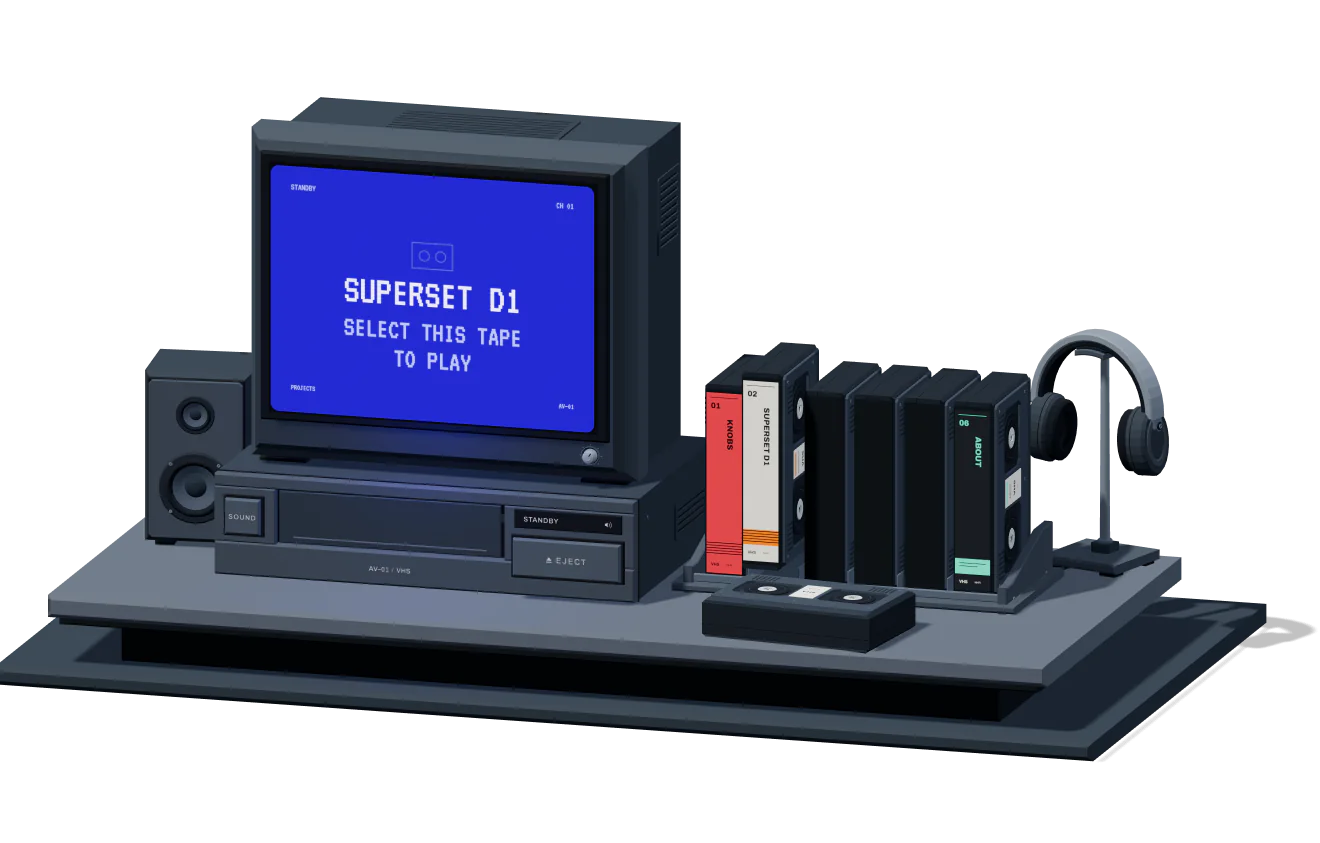
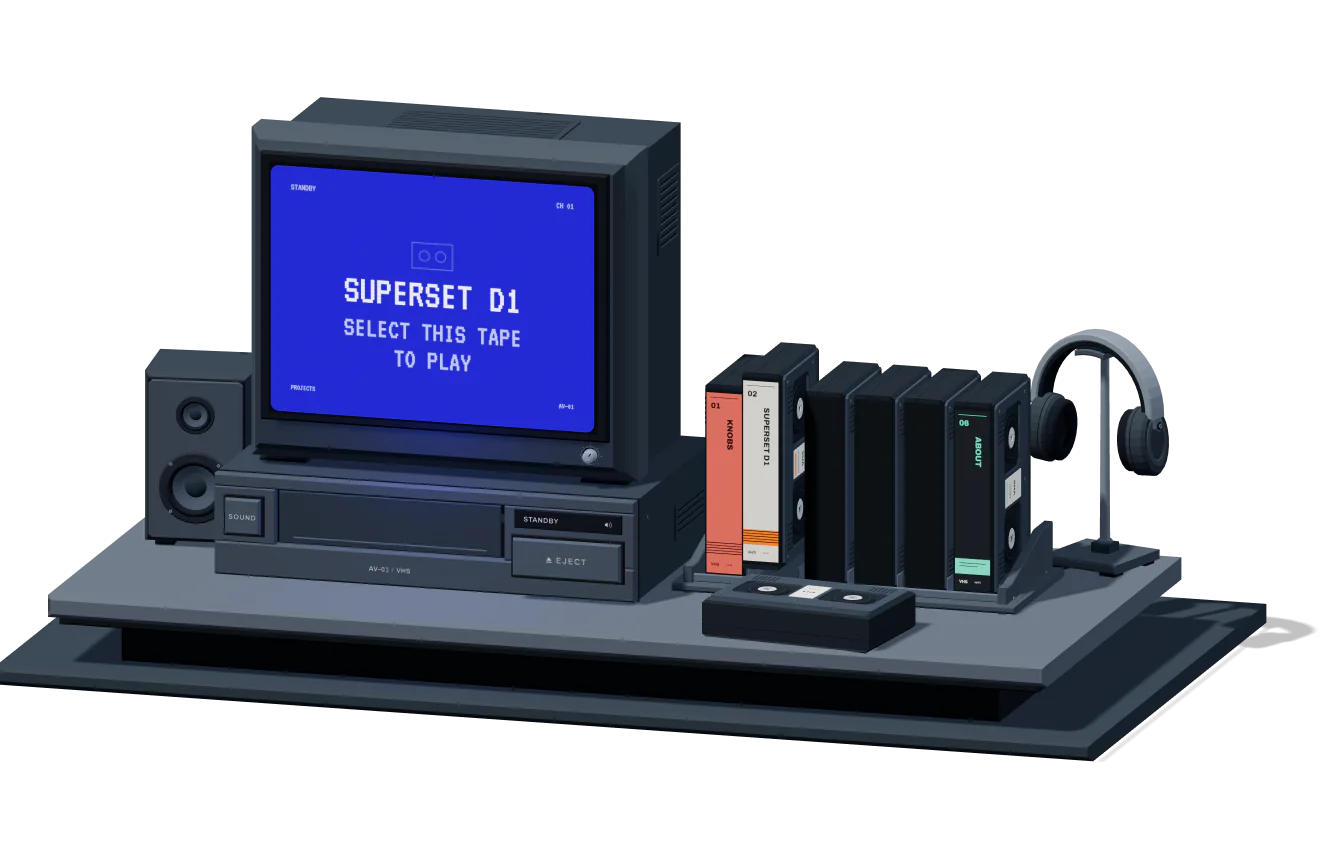
Follow the knobs rebrand on its tape
knobs has a new brand (the knobs-brand repository) and new releases
since its tape went in. The reader's title card now shows the new flat
lockup, copied unchanged from knobs-brand's logo/svg/ and served as the
file rather than inlined. It no longer glows: the brand allows no glow,
shadow or outline on its logo. It stays under the tube's grain,
scanlines, vignette and tracking, keeps the brand's clear space, and
clears its 24px floor (The Title Card Rule).

The spine label and the diagram's "My code" outline take cap red,
#df695e, the brand's one red. The write-up says what changed for a
visitor: knobs keeps running while OBS is open, runs VST plugins and
NVIDIA's noise removal, and uses a fraction of OBS's memory and CPU. It
ends on the brand's own independence line. The diagram's knobs note
reads "Runs while OBS is open too".

Diagrams, share cards and the studio's stills re-rendered (the D1
diagrams and the stills' slot data unchanged). The title card test
reads the logo's proportions from its viewBox, checks that it has no
glow, and checks the brand's clear space. DESIGN.md, PRODUCT.md, the
surface brief, the sidecar and PLAN.md are updated. 96 e2e green.

Changed region(s): [[0.528, 0.4626, 0.5591, 0.6785]]

diff --git a/src/content/projects/knobs.ts b/src/content/projects/knobs.ts
@@ -1,10 +1,12 @@
 import type { Project } from '../types'
-// The knobs logo, copied unchanged from the knobs repository's assets/: the
-// lockup with light text, for dark grounds, and its dark-text twin for a
-// light high-contrast theme. Their use here is the one TRADEMARKS.md there
-// allows without asking: unmodified, to refer to knobs.
-import lockup from './media/knobs-lockup-horizontal-light.svg'
-import lockupOnLight from './media/knobs-lockup-horizontal-dark.svg'
+// The knobs logo, copied unchanged from the knobs-brand repository's
+// logo/svg/: the horizontal lockup with light ink, for dark grounds, and its
+// dark-ink twin for a light high-contrast theme. Their use here is the one
+// TRADEMARKS.md in the knobs repository allows without asking: unmodified,
+// to refer to knobs. Served as the files themselves, not inlined as data
+// URLs into the page's script.
+import lockup from './media/knobs-lockup-horizontal-light.svg?no-inline'
+import lockupOnLight from './media/knobs-lockup-horizontal-dark.svg?no-inline'
 // Rendered from the two .html sources beside them by `npm run render:diagrams`.
 import diagram from './media/knobs-diagram.webp'
 import narrowDiagram from './media/knobs-diagram-narrow.webp'
@@ -13,13 +15,14 @@ export const knobs: Project = {
   slug: 'knobs',
   title: 'knobs',
   caption: 'Your OBS mic chain, in every app',
-  logo: { src: lockup, width: 1375, height: 304, onLight: lockupOnLight },
+  // The files carry only a viewBox (455.74 × 104); this is four times it.
+  logo: { src: lockup, width: 1823, height: 416, onLight: lockupOnLight },
   tagline:
     'A Windows app I built that gives every app on your PC the mic sound you set up in OBS Studio.',
   description: [
     'Streamers and podcasters often shape their microphone’s sound in OBS Studio, the free streaming and recording app, with filters that cut background noise and keep their voice at an even level. Using that sound in a call or a game usually means keeping OBS open all day.',
-    'knobs runs the same filters in the background instead, with OBS closed. It uses OBS’s own audio code and reads your settings from OBS, so your mic sounds exactly as it does there, bit for bit. Other apps hear it through a virtual audio cable, which they pick as their microphone.',
-    'It starts with Windows, waits in the system tray and steps aside whenever OBS is open. knobs is an independent project, not affiliated with or endorsed by the OBS Project.',
+    'knobs runs the same filters in the background instead, so OBS can stay closed. It uses OBS’s own audio code and reads your settings from OBS, so your mic sounds exactly as it does there, bit for bit. Other apps hear it through a virtual cable, which they choose as their mic.',
+    'It also runs the add-on effects OBS can host: VST plugins and NVIDIA’s noise removal. It waits in the system tray, starts with Windows and uses a fraction of the memory and CPU that OBS does. It keeps running while OBS is open too, so you can stream from OBS and talk in your other apps with the same filters. knobs is an independent project, not affiliated with the OBS Project.',
   ],
   year: 2026,
   role: 'Creator',
@@ -35,14 +38,15 @@ export const knobs: Project = {
       width: 2080,
       height: 1742,
       narrow: { src: narrowDiagram, width: 1170, height: 2730 },
-      alt: 'System diagram of how knobs runs a microphone through OBS’s own audio code. Inside knobs, the loader keeps a private copy of OBS Studio, your own install, made once per OBS version, and loads libobs, OBS’s audio engine, from it with no video. OBS’s settings, your profile, are read and never written by the importer inside knobs, which rebuilds your mic in libobs with OBS’s own code. Inside libobs your mic’s audio passes from the mic input, as set in OBS, through your filters in order, to the output, OBS’s audio monitoring. The processed mic goes out to a virtual cable, which other apps use as their mic. knobs pauses while OBS runs. Solid lines are audio and dashed lines are code and settings. The loader and the importer are outlined in red as my code.',
+      alt: 'System diagram of how knobs runs a microphone through OBS’s own audio code. Inside knobs, the loader keeps a private copy of OBS Studio, your own install, made once per OBS version, and loads libobs, OBS’s audio engine, from it with no video. OBS’s settings, your profile, are read and never written by the importer inside knobs, which rebuilds your mic in libobs with OBS’s own code. Inside libobs your mic’s audio passes from the mic input, as set in OBS, through your filters in order, to the output, OBS’s audio monitoring. The processed mic goes out to a virtual cable, which other apps use as their mic. knobs runs while OBS is open too. Solid lines are audio and dashed lines are code and settings. The loader and the importer are outlined in red as my code.',
       caption: 'How knobs runs your mic through OBS’s own audio code.',
     },
   ],
   vhs: {
     spineLabel: 'KNOBS',
     labelVariant: 'rental',
-    accent: '#e5484d',
+    // Cap red, the knobs brand's red (knobs-brand tokens: `action`).
+    accent: '#df695e',
     recorded: 'OCT 2026',
   },
 }

diff --git a/e2e/reader.spec.ts b/e2e/reader.spec.ts
@@ -136,8 +136,16 @@ test('a tape with a logo of its own opens on it as its title card, under the tub
   await expect(title).toBeFocused()
   await expect(page).toHaveTitle('knobs · Daniel Alyoshin')
   const card = await title.evaluate(async (h2) => {
-    const [logo, bloom] = Array.from(h2.querySelectorAll('img'))
+    const images = Array.from(h2.querySelectorAll('img'))
+    const logo = images[0]
     await logo.decode()
+    // The file's own proportions, from its viewBox: an SVG with no width or
+    // height reports a rounded natural size.
+    const svg = await (await fetch(logo.currentSrc)).text()
+    const [, , vw, vh] = svg
+      .match(/viewBox=["']([^"']+)["']/)![1]
+      .split(/\s+/)
+      .map(Number)
     const box = logo.getBoundingClientRect()
     const screen = h2.closest('section[aria-label="CRT display"] > div')!
     // The tube's grain, scanlines and vignette are its last three layers.
@@ -153,27 +161,35 @@ test('a tape with a logo of its own opens on it as its title card, under the tub
       )
     })
     const mark = getComputedStyle(h2.querySelector('span')!, '::after')
+    // The meta line keeps clear of the card by a quarter of the mark's
+    // height, as the knobs brand asks: its mark is drawn on a 100-unit
+    // square in the lockup's box.
+    const below =
+      h2.nextElementSibling!.getBoundingClientRect().top - box.bottom
     return {
+      clear: below >= (box.height * (100 / vh)) / 4,
       ratio: box.width / box.height,
-      natural: logo.naturalWidth / logo.naturalHeight,
-      bloomHidden: bloom.alt === '' && bloom.src === logo.src,
-      bloomBlend: getComputedStyle(bloom).mixBlendMode,
+      natural: vw / vh,
+      images: images.length,
+      filter: getComputedStyle(logo).filter,
       covered,
       underline: { height: mark.height, colour: mark.backgroundColor },
     }
   })
-  // Drawn as supplied: never stretched (the knobs logo's own rule).
+  // Drawn as supplied: never stretched, and with no glow or copy laid over
+  // it (the knobs brand's own rules).
   expect(card.ratio).toBeCloseTo(card.natural, 2)
-  expect(card.bloomHidden).toBe(true)
-  expect(card.bloomBlend).toBe('screen')
+  expect(card.images).toBe(1)
+  expect(card.filter).toBe('none')
   expect(card.covered).toBe(true)
+  expect(card.clear).toBe(true)
   // Chosen from the keyboard, the card marks the focus on it, as a title's
   // type does: a 3px line in OSD white.
   expect(card.underline).toEqual({
     height: '3px',
     colour: 'rgb(255, 255, 255)',
   })
-  // On the smallest phone the knob still stands above its 32px floor.
+  // On the smallest phone the lockup still stands above its 24px floor.
   await page.setViewportSize({ width: 320, height: 640 })
   await page.goto('/project/knobs')
   const phone = page
@@ -185,5 +201,5 @@ test('a tape with a logo of its own opens on it as its title card, under the tub
       .locator('img')
       .first()
       .evaluate((img) => img.clientHeight),
-  ).toBeGreaterThanOrEqual(32)
+  ).toBeGreaterThanOrEqual(24)
 })

diff --git a/src/components/CRT.module.css b/src/components/CRT.module.css
@@ -225,11 +225,10 @@
 
 /* A tape with a logo of its own opens on it (The Title Card Rule): the
    owner's file as drawn, never recoloured, standing where the title's type
-   would, at 1.75 times its size, which holds a knob above its 32px floor on
-   the smallest tube. The tube lights it as it lights its text: under its
-   grain, scanlines and vignette, and with the OSD's 6px glow at half
-   strength, here in the logo's own colours (a blurred copy screened over
-   it), so its lit parts bloom and its dark parts do not. */
+   would, at 1.75 times its size, which holds the knobs lockup well above its
+   24px floor on the smallest tube. It lies under the tube's grain,
+   scanlines and vignette, as everything the tube shows does, but takes no
+   glow: the knobs brand allows none. */
 .titleCard {
   line-height: 0;
 }
@@ -246,14 +245,6 @@
   display: block;
   width: auto;
   height: 100%;
-}
-.logo .logoBloom {
-  position: absolute;
-  inset: 0;
-  filter: blur(6px);
-  opacity: 0.5;
-  mix-blend-mode: screen;
-  pointer-events: none;
 }
 /* Type takes the keyboard's underline; a picture cannot, so the card draws
    the same 3px OSD-white line under itself. */
@@ -684,14 +675,10 @@
     background: GrayText;
     opacity: 1;
   }
-  /* The title card keeps its keyboard line in the visitor's own ink, and
-     drops its glow: the mode's ground may be light, where it would only
-     haze the letters (The Title Card Rule). */
+  /* The title card keeps its keyboard line in the visitor's own ink (The
+     Title Card Rule). */
   .titleCard[data-keyboard]:focus-visible .logo::after {
     forced-color-adjust: none;
     background: CanvasText;
-  }
-  .logo .logoBloom {
-    display: none;
   }
 }

diff --git a/src/content/projects/media/knobs-diagram.html b/src/content/projects/media/knobs-diagram.html
@@ -23,9 +23,9 @@
   - code and settings (dashed) come down x 120 and x 400, each labelled
     12px to its right; audio (solid) comes up into the chain at x 100,
     along it, and out of it at x 430 to the cable, then on to the apps.
-  The knob red, the tape's label accent, marks the parts I wrote, as the
-  key under the drawing says; everything the mic's audio passes through is
-  OBS's own code.
+  Cap red, the knobs brand's red and the tape's label accent, marks the
+  parts I wrote, as the key under the drawing says; everything the mic's
+  audio passes through is OBS's own code.
 -->
 <html lang="en">
   <head>
@@ -38,7 +38,7 @@
     <style>
       :root {
         /* The tape's label accent (vhs.accent): the parts I wrote. */
-        --accent: #e5484d;
+        --accent: #df695e;
         --node: color-mix(in srgb, var(--screen-text) 4%, var(--screen-black));
         --line: var(--screen-scroll);
       }
@@ -183,7 +183,9 @@
           rx="4"
         />
         <text class="name" x="30" y="127">knobs</text>
-        <text class="quiet end" x="590" y="127">Pauses while OBS runs</text>
+        <text class="quiet end" x="590" y="127">
+          Runs while OBS is open too
+        </text>
 
         <rect
           class="part changed"

diff --git a/src/content/projects/media/knobs-diagram-narrow.html b/src/content/projects/media/knobs-diagram-narrow.html
@@ -15,7 +15,7 @@
     12px to its right; the mic's audio (solid) takes the rail at x 342
     from the mic down to the chain's first row, runs down the chain at
     x 150, and leaves it at x 100 for the cable and the apps.
-  The knob red marks the parts I wrote, as the key says.
+  Cap red, the knobs brand's red, marks the parts I wrote, as the key says.
 -->
 <html lang="en">
   <head>
@@ -28,7 +28,7 @@
     <style>
       :root {
         /* The tape's label accent (vhs.accent): the parts I wrote. */
-        --accent: #e5484d;
+        --accent: #df695e;
         --node: color-mix(in srgb, var(--screen-text) 4%, var(--screen-black));
         --line: var(--screen-scroll);
       }
@@ -244,7 +244,9 @@
         <text class="name" x="54" y="547">Output</text>
         <text class="quiet end" x="286" y="547">Audio monitoring</text>
 
-        <text class="quiet end" x="310" y="604">Pauses while OBS runs</text>
+        <text class="quiet end" x="310" y="604">
+          Runs while OBS is open too
+        </text>
 
         <!-- Out to the cable and the other apps -->
         <path class="wire" d="M100 565v86" />

diff --git a/src/components/CRT.tsx b/src/components/CRT.tsx
@@ -277,13 +277,6 @@ export default function CRT({
                             alt={tape.title}
                           />
                         </picture>
-                        <img
-                          className={styles.logoBloom}
-                          src={tape.logo.src}
-                          width={tape.logo.width}
-                          height={tape.logo.height}
-                          alt=""
-                        />
                       </span>
                     ) : (
                       tape.title

diff --git a/DESIGN.md b/DESIGN.md
@@ -305,9 +305,9 @@ bar's ten steps are painted boxes the mode would turn into the screen's own
 ground, so they alone opt out (`forced-color-adjust: none`) and take their
 colours from the system palette: each step outlined in `CanvasText`, filled
 when lit, and `GrayText` while pointing previews the turn (The Picture Size
-Rule). A title card's keyboard line opts out the same way, in `CanvasText`;
-its glow goes, and on a light theme the card shows its owner's version for
-light grounds (The Title Card Rule). Normal colours are unchanged.
+Rule). A title card's keyboard line opts out the same way, in `CanvasText`,
+and on a light theme the card shows its owner's version for light grounds
+(The Title Card Rule). Normal colours are unchanged.
 
 ## Typography
 
@@ -859,7 +859,7 @@ rack, and a ray through an empty slot would run on into the next envelope
 classic, rental, and studio variants, and the About tape alone wears the
 studio label, a dark spine printed in its accent, so it reads apart from
 every project (Daniel, 2026-10-08): KNOBS is a rental label, its whole
-spine in the knob red, and SUPERSET D1 a classic one. High-resolution
+spine in cap red, the knobs brand's red, and SUPERSET D1 a classic one. High-resolution
 local canvas textures carry the print; hovering a tape or focusing its link
 lifts and previews the same cassette without changing its size or orientation.
 The lift follows an arc that rises before it comes forward, and retreats
@@ -1112,22 +1112,25 @@ answer, as the bar does not.
 
 **The Title Card Rule.** A tape whose project has a logo of its own opens on
 it, as a tape opens on its title card. The logo stands in the title's
-place, at 1.75 times the title's size, which holds the knobs knob above the
-32px floor its owner sets on the smallest tube, and the title stays the
-heading's name, said by the image's alternative text, so the tape is
-announced, and its document named, as every tape is. The logo is the
-owner's file as supplied (`Project.logo`, its pixel size required, as
-media's is): never redrawn, recoloured, rotated, stretched, or set in the
-site's type. The tube lights it as it lights everything it shows: it plays
-the tracking entrance, scrolls under the OSD's fades, and lies under the
-grain, scanlines, and vignette; and it carries the OSD's glow, 6px at half
-strength, in its own colours (a blurred copy screened over it), so what is
-lit on it blooms and its dark parts stay dark. A picture cannot take the
-keyboard's underline, so for a tape chosen from the keyboard the card draws
-the same 3px OSD-white line under itself, 0.4rem below. In forced colours
-the line is drawn in the visitor's ink (`CanvasText`), the glow goes, and a
-light theme, whose ground would swallow the logo's light letters, gets the
-owner's own version for light grounds (`logo.onLight`). The logo lives on
+place, at 1.75 times the title's size, which holds the knobs lockup well
+above the 24px floor its owner sets, on the smallest tube, and keeps the
+quarter of its mark's height that its owner asks be left clear round it,
+and the title stays the heading's name, said by the image's alternative
+text, so the tape is announced, and its document named, as every tape is.
+The logo is the owner's file as supplied (`Project.logo`, its pixel size
+required, as media's is), served as the file and not inlined: never
+redrawn, recoloured, rotated, stretched, or set in the site's type. The
+tube shows it as it shows everything else: it plays the tracking entrance,
+scrolls under the OSD's fades, and lies under the grain, scanlines, and
+vignette. It takes no glow of its own, where the OSD's type takes one: the
+knobs brand allows no glow, shadow or outline on its logo (Daniel's knobs
+rebrand, 2026-10-16, which also gave the logo its new flat lockup). A
+picture cannot take the keyboard's underline, so for a tape chosen from the
+keyboard the card draws the same 3px OSD-white line under itself, 0.4rem
+below, outside the logo's clear space. In forced colours the line is drawn
+in the visitor's ink (`CanvasText`), and a light theme, whose ground would
+swallow the logo's light letters, gets the owner's own version for light
+grounds (`logo.onLight`). The logo lives on
 the tube alone: the spine, the archive,
 the guide, and the idle and loading tubes name the tape in type, as they
 name every tape. knobs, in slot 01, is the one tape with a logo today. The
@@ -1302,7 +1305,7 @@ has none. The address itself is a Stage 10 decision.
 - Do respect prefers-reduced-motion in CSS, camera movement, tape movement, and design-panel examples.
 - Do offer the tube's picture at full size in the set's own language, the OSD's size bar and the monitor's dial, never a page control in a corner (The Picture Size Rule).
 - Do show a tape's media only where it can be read at full size; on the tube, offer it as a closer look in its place (The Closer Look Rule).
-- Do open a tape on its project's own logo, as supplied, where it has one, in the tube's light and under its effects like everything the tube shows (The Title Card Rule).
+- Do open a tape on its project's own logo, as supplied, where it has one, under the tube's effects like everything the tube shows, with nothing its owner's brand forbids, such as a glow (The Title Card Rule).
 - Do give every tape a share card of its own, the studio caught as that tape goes into the deck (The Card Rule).
 - Do start with sound on unless the visitor muted it before, silent until the first gesture, holding no cue for it (The First Gesture Rule), with one sound key live at a time (The One Key Rule).
 - Do change a design value in this file's frontmatter first, then `tokens.css`, and let `e2e/design.spec.ts` prove the site renders it (The Source of Truth Rule).

diff --git a/PLAN.md b/PLAN.md
@@ -1842,6 +1842,43 @@ typeset and polish pass, Impeccable's finish reviewer, and its documenter.
   clear of (`left`, `skyline` in `studioStills.ts`); the stills re-rendered
   byte for byte.
 
+#### The knobs rebrand (2026-10-16)
+
+Daniel rebranded knobs and shipped several releases since the tape went in
+on 2026-10-08 ("knobs has been rebranded and heavily updated since update
+our site to match"). The new brand lives in the knobs-brand repository
+(`BRAND.md`, tokens, logo files); knobs and getknobs.app draw on it.
+
+- ✅ Logo: the new flat lockup (the knob turned to its top position and
+  "knobs" with "obs" in cap red), light and dark versions copied unchanged
+  from knobs-brand's `logo/svg/`. The files carry only a viewBox, so
+  `Project.logo` gives four times it (1823 × 416). They are under Vite's
+  inline limit and are imported with `?no-inline`, so they are served as
+  the files, as the old ones were.
+- ✅ No glow on the title card: the brand's Don't list forbids glows,
+  shadows and outlines on its logo, so the blurred bloom copy is gone (The
+  Title Card Rule). It keeps the tube's grain, scanlines, vignette and
+  tracking entrance, which lie over everything the tube shows. The card
+  keeps the brand's clear space (a quarter of the mark's height) above the
+  meta line, and the keyboard line sits outside it; the brand's lockup
+  floor is 24px, which the 1.75× card clears on the smallest tube (42px).
+- ✅ Colour: the tape's rental label and the diagram's "My code" outline
+  take cap red `#df695e` (the brand's red; the old knob red `#e5484d` is
+  now the app's "needs you" state mark, which the brand keeps out of brand
+  material).
+- ✅ Copy: knobs now runs while OBS is open (it pauses only where OBS's
+  monitoring also plays the mic into the cable), runs VST plugins and
+  NVIDIA's noise removal, and has the brand's one-sentence independence
+  line. The write-up says so in plain words, with the footprint as "a
+  fraction of the memory and CPU that OBS does" and no versions or
+  figures. The diagram's knobs note reads "Runs while OBS is open too"
+  (was "Pauses while OBS runs"), in both drawings and the alt text.
+- ✅ Re-rendered: both knobs diagrams (the D1 ones byte for byte), every
+  share card, and the studio's stills (`studioStills.ts` unchanged).
+- Kept: KNOBS in capitals on the spine and in the projects list (Daniel,
+  2026-10-08), though the brand now says knobs is lowercase everywhere;
+  the caption, which is still the brand's tagline.
+
 ---
 
 ## Open decisions (flagged, not blocking)

diff --git a/PRODUCT.md b/PRODUCT.md
@@ -84,13 +84,15 @@ accessibility standards.
   runs an OBS mic filter chain without OBS; https://getknobs.app) and
   Cloudflare D1 in Apache Superset. The three project slots without one hold
   blank tapes marked "Coming soon…" until Daniel adds a project.
-- The knobs logo, Daniel's own, from the knobs repository's `assets/`: shown
-  unmodified, on the knobs tape's reader only (The Title Card Rule in
-  `DESIGN.md`), as its TRADEMARKS.md allows. knobs is written all lowercase
-  in running text and in capitals where the site sets every tape's name in
+- The knobs logo, Daniel's own, from the knobs-brand repository's
+  `logo/svg/` (rebranded 2026-10-16): shown unmodified and with no glow, on
+  the knobs tape's reader only (The Title Card Rule in `DESIGN.md`), as the
+  knobs TRADEMARKS.md and brand guide allow. Its tape's label is cap red
+  (`#df695e`), the brand's one red. knobs is written all lowercase in
+  running text and in capitals where the site sets every tape's name in
   capitals (KNOBS on the spine and in the projects list; Daniel,
-  2026-10-08), and is presented as independent of the OBS Project, as its
-  own brand commitments ask.
+  2026-10-08), and is presented with the brand's own line: "knobs is an
+  independent project, not affiliated with the OBS Project."
 - Future work must not fabricate real-seeming projects, metrics, testimonials,
   or press. An unfilled slot must read as unfilled: a blank tape, never a
   stand-in project.

diff --git a/.impeccable/surfaces/src-app-tsx.md b/.impeccable/surfaces/src-app-tsx.md
@@ -117,8 +117,8 @@ a full-height native CRT reader with a 16px prose floor, scaling to 18px.
 A tape whose project has a logo of its own (knobs, slot 01) opens on it as
 its title card: the owner's file as supplied, in the title's place at 1.75
 times its size, named by the title, under the tube's grain, scanlines and
-vignette and the tracking entrance, with the OSD's 6px glow in its own
-colours; for a tape chosen from the keyboard it draws the title's 3px
+vignette and the tracking entrance, with no glow (the knobs brand allows
+none); for a tape chosen from the keyboard it draws the title's 3px
 underline under itself (The Title Card Rule in `DESIGN.md`). Spine names
 are capitals wherever they are printed, whatever the project's own case
 (KNOBS on the spine, in the projects list, the guide and the tubes).
